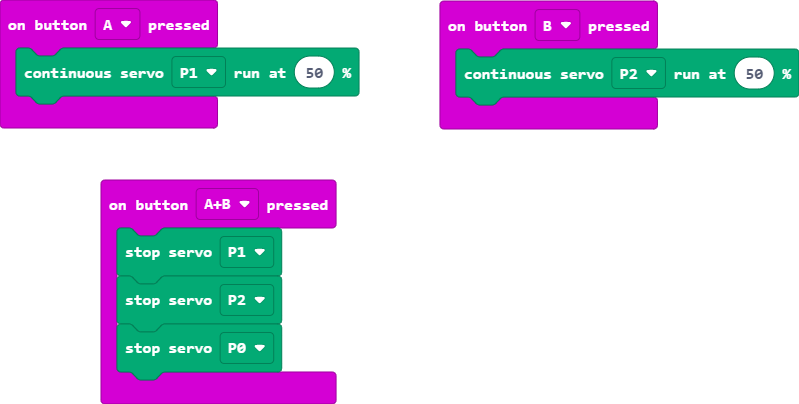
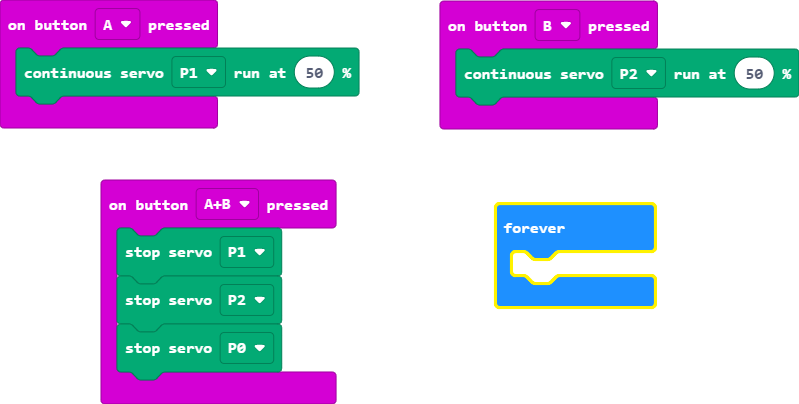
Update main.blocks, main.ts

Changed region(s): [[0.6008, 0.4752, 0.8411, 0.7723]]

diff --git a/main.ts b/main.ts
@@ -9,3 +9,6 @@ input.onButtonPressed(Button.AB, function () {
 input.onButtonPressed(Button.B, function () {
     servos.P2.run(50)
 })
+basic.forever(function () {
+	
+})
